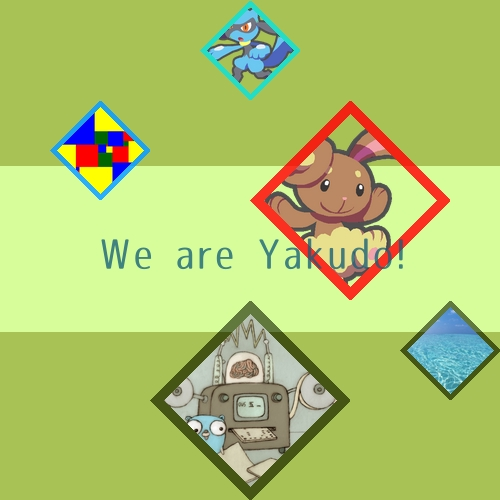
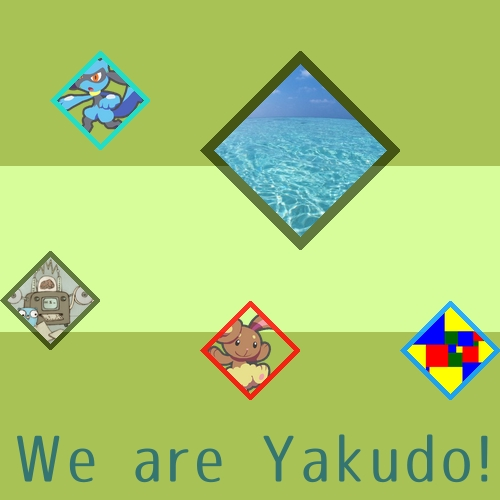
タイトルを上か下にする

diff --git a/draw/points.go b/draw/points.go
@@ -9,7 +9,8 @@ import (
 )
 
 type Boad struct {
-	points [BOAD_SIZE][BOAD_SIZE]bool
+	points     [BOAD_SIZE][BOAD_SIZE]bool
+	titlePoint string
 }
 
 /*
@@ -17,8 +18,17 @@ type Boad struct {
 */
 
 func NewBoad() Boad {
+	b := Boad{}
 	// bitmap的な
 	points := [BOAD_SIZE][BOAD_SIZE]bool{}
+	// タイトルを表示する位置を決める
+	rand.Seed(time.Now().UnixNano())
+	switch rand.Intn(2) {
+	case 0:
+		b.titlePoint = "header"
+	default:
+		b.titlePoint = "footer"
+	}
 	// boad初期化
 	// 外周はfalse
 	for i := 0; i < BOAD_SIZE; i++ {
@@ -27,13 +37,19 @@ func NewBoad() Boad {
 			if i < OUT_OF_BOAD || i >= BOAD_SIZE-OUT_OF_BOAD ||
 				j < OUT_OF_BOAD || j >= BOAD_SIZE-OUT_OF_BOAD {
 				points[i][j] = false
+			} else if b.titlePoint == "header" && j < OUT_OF_BOAD+2 {
+				points[i][j] = false
+
+			} else if b.titlePoint == "footer" && j > BOAD_SIZE-OUT_OF_BOAD-2 {
+				points[i][j] = false
 			} else {
 				points[i][j] = true
 			}
 		}
 	}
 
-	return Boad{points}
+	b.points = points
+	return b
 }
 
 func (b *Boad) atRect(x, y, size int) image.Rectangle {

diff --git a/draw/text.go b/draw/text.go
@@ -8,21 +8,21 @@ import (
 )
 
 type Text struct {
-	Sentence string
-	length   int
+	Sentence  string
+	length    int
+	placement string
 }
 
-func NewText(sen string) *Text {
-	text := &Text{sen, len(sen)}
+func NewText(sen string, boad Boad) *Text {
+	text := &Text{sen, len(sen), boad.titlePoint}
 	return text
 }
 
 func (t *Thumbnail) SetTitle() error {
 	d, err := text2img.NewDrawer(text2img.Params{
 		Width:           IMG_SIZE,
-		Height:          IMG_SIZE / 3,
+		Height:          WIDTH * 2,
 		FontPath:        FONT_PATH,
-		FontSize:        FONT_SIZE,
 		BackgroundColor: MUSYOKU_TOUMEI,
 		TextColor:       DARK_GREEN,
 	})
@@ -34,7 +34,13 @@ func (t *Thumbnail) SetTitle() error {
 		return err
 	}
 
-	rect := image.Rect(0, IMG_SIZE/3, IMG_SIZE, IMG_SIZE*2/3)
+	var rect image.Rectangle
+	switch t.Title.placement {
+	case "header":
+		rect = image.Rect(0, 0, IMG_SIZE, WIDTH*2)
+	case "footer":
+		rect = image.Rect(0, IMG_SIZE-WIDTH*2, IMG_SIZE, IMG_SIZE)
+	}
 
 	// サムネイル画像と合成
 	draw.Draw(t.Img, rect, textImg, image.Pt(0, 0), draw.Over)

diff --git a/draw/thumbnail.go b/draw/thumbnail.go
@@ -22,11 +22,14 @@ func NewThumbnail(title string, cards []model.Card) *Thumbnail {
 	// イメージの土台
 	t.Img = image.NewRGBA(image.Rect(x, y, width, height))
 
+	// ボード
+	boad := NewBoad()
+
 	// アイコン画像一覧
-	t.Icons = NewIconList(cards)
+	t.Icons = NewIconList(cards, boad)
 
 	// タイトル
-	t.Title = NewText(title)
+	t.Title = NewText(title, boad)
 
 	return t
 }

diff --git a/draw/iconparts.go b/draw/iconparts.go
@@ -22,15 +22,15 @@ type Icon struct {
 }
 
 // アイコンをセット
-func NewIconList(cards []model.Card) []*Icon {
+func NewIconList(cards []model.Card, boad Boad) []*Icon {
 
 	var icons []*Icon
 
 	rand.Seed(time.Now().UnixNano())
 
 	// iconを配置する場所をランダムに決定
-	boad := NewBoad()
 	iconNum := len(cards)
+
 	// 丸かひし形か
 	frameType := rand.Intn(2)
 
